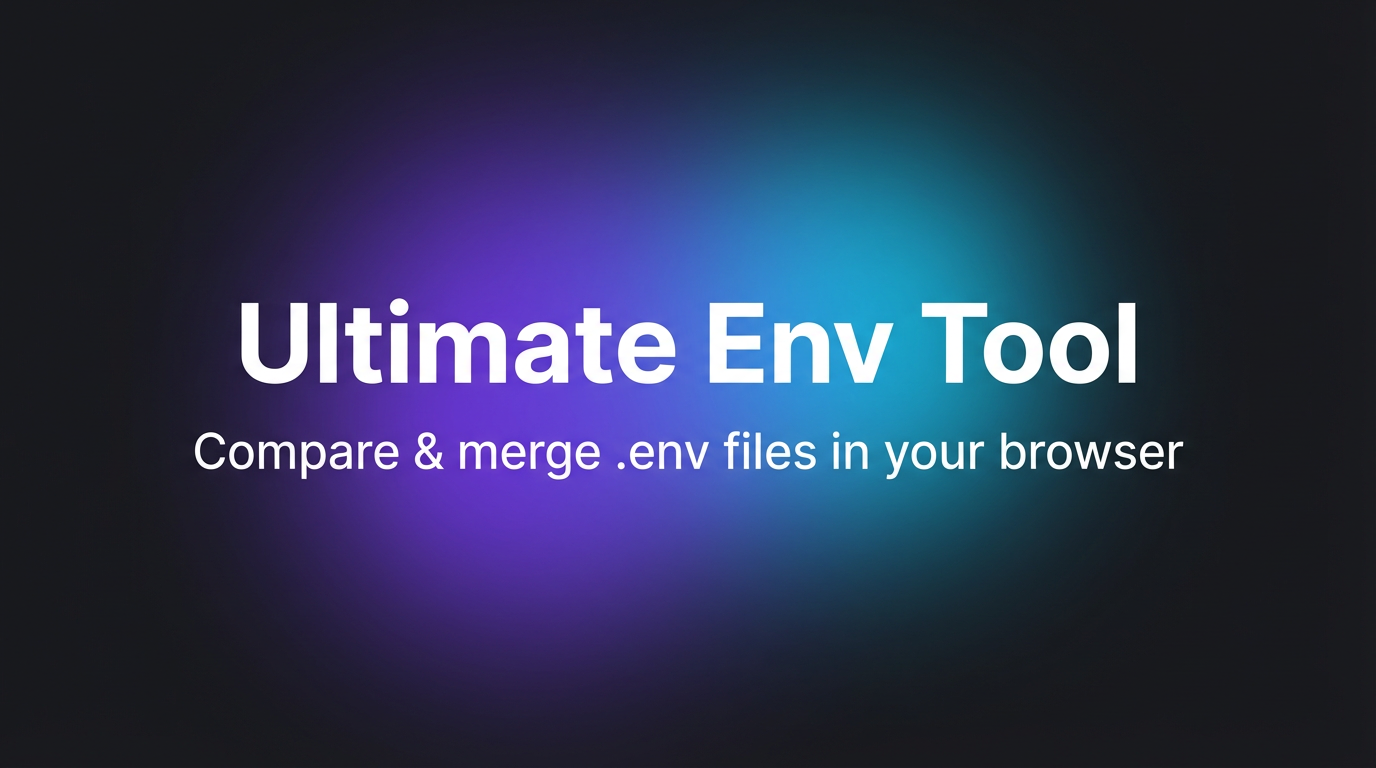
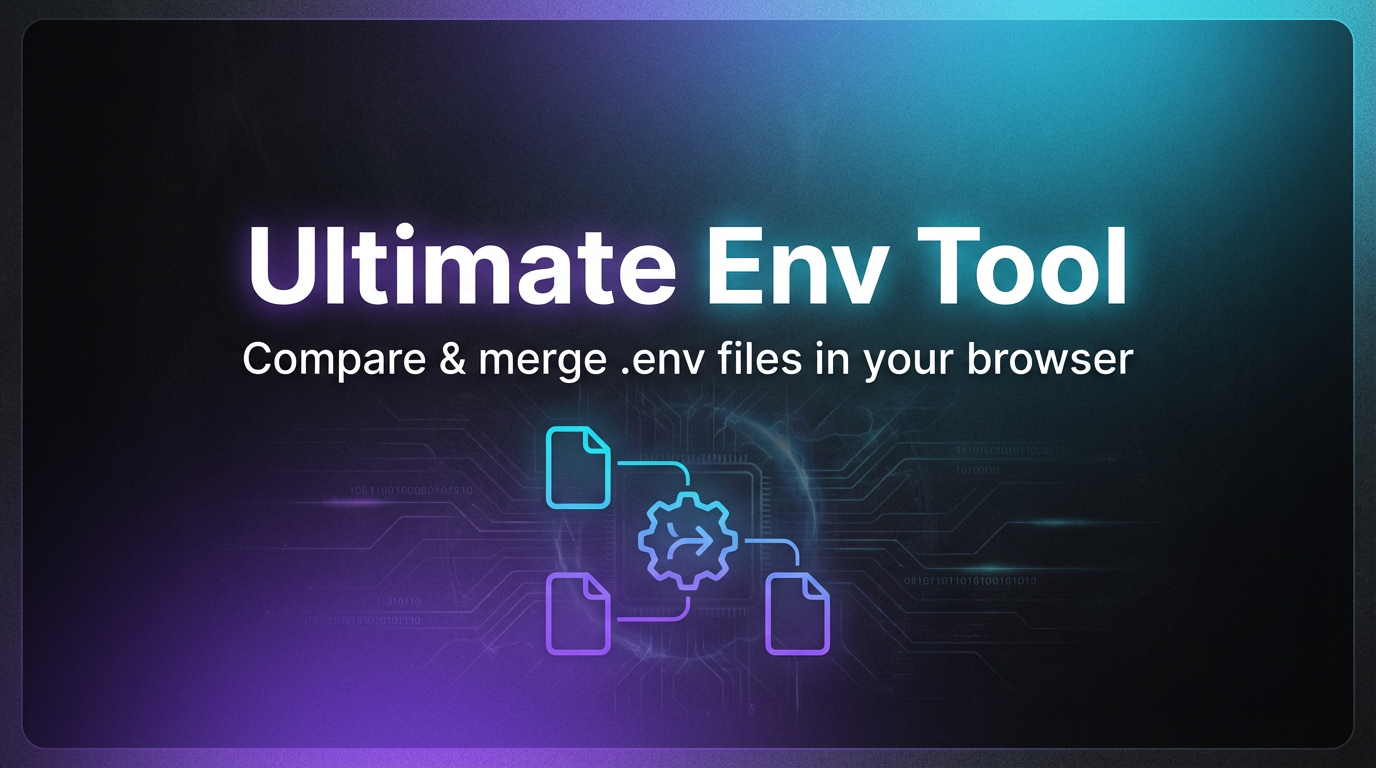
Add Docker support with multi-stage build and Nginx configuration
- Introduced .dockerignore to exclude unnecessary files from the Docker context.
- Added captain-definition for CapRover deployment.
- Created Dockerfile for building a static SPA with Node.js and serving it with Nginx.
- Updated README with Docker and CapRover instructions.

diff --git a/README.md b/README.md
@@ -13,7 +13,7 @@ Created by **[Eliott Guillaumin](https://eliott.cloud)**.
 - **Row filters (legend)** — Filter the matrix by patterns such as same value on a subset of envs, unique to one env, all different, or missing on an env.
 - **Hybrid env merge** — Choose **union** or **intersection** for which keys appear, enable/disable sources, drag to set **priority**; **first defined wins** per key for the merged output.
 - **Optional persistence** — AES-256-GCM encrypted snapshot in `localStorage`; encryption key stays in tab memory until you close it. Export/import **`ultimate-env-tool.encrypted-archive.json`** when persistence is enabled.
-- **Client-side first** — No account and no server for editing; data stays on your machine unless you opt into encrypted local storage.
+- **Client-side first** — No account and no server for editing; data stays on your machine even if you opt into encrypted local storage (provides you with an AES-256 key to store in your favorite Password Manager)
 
 ---
 
@@ -83,12 +83,36 @@ Static SEO assets are emitted into `dist/` on build:
 
 Additional head metadata and **JSON-LD** are injected from [`src/seo.ts`](src/seo.ts) via Vite’s `transformIndexHtml`.
 
+### Docker / CapRover
+
+The repo includes **`captain-definition`** at the repo root (CapRover schema v2) pointing at **`./Dockerfile`**, plus a **multi-stage Dockerfile**: Node builds the production `dist/`, then **nginx** serves it on port **80** (CapRover’s default).
+
+1. Create or select an app in CapRover → connect your **Git** repo (or upload tar) so CapRover sees `captain-definition` next to `package.json`.
+2. Deploy (CapRover uses **`captain-definition`** automatically; it references the **Dockerfile**). If your dashboard asks for a custom path, use **`./captain-definition`** (default).
+3. Under **App Configs → Deployment →** build settings, add a **Build Argument**:
+   - **Key:** `VITE_SITE_URL`
+   - **Value:** your public URL **without** a trailing slash, e.g. `https://env-tool.captain.example.com`  
+     This bakes the correct canonical, Open Graph, and sitemap URLs into the static files.
+
+Local smoke test:
+
+```bash
+docker build --build-arg VITE_SITE_URL=https://your-live-domain.example -t ultimate-env-tool .
+docker run --rm -p 8080:80 ultimate-env-tool
+# open http://localhost:8080
+```
+
+Files: [`captain-definition`](captain-definition), [`Dockerfile`](Dockerfile), [`nginx.conf`](nginx.conf), [`.dockerignore`](.dockerignore).
+
 ---
 
 ## Project layout
 
 ```
-├── public/           # Static assets (favicon, og-image, web manifest)
+├── captain-definition # CapRover: schemaVersion 2 → ./Dockerfile
+├── Dockerfile        # Multi-stage: build SPA + nginx runtime
+├── nginx.conf        # SPA static hosting + try_files fallback
+├── public/           # Static assets (favicon, og-image.png, web manifest)
 ├── src/
 │   ├── components/ # UI: matrix, slots, hybrid builder, legend, dialogs
 │   ├── lib/        # Parsing, persistence, download helpers
